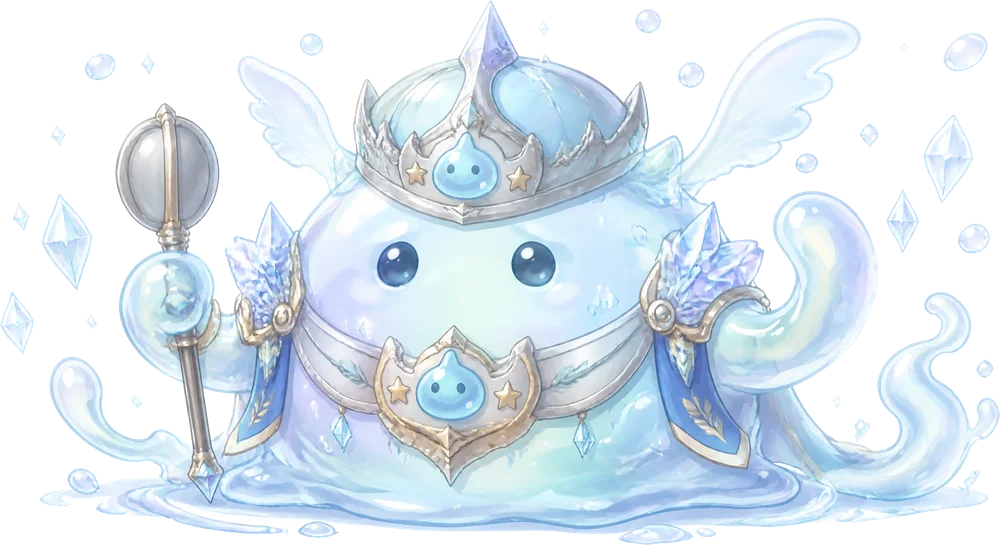
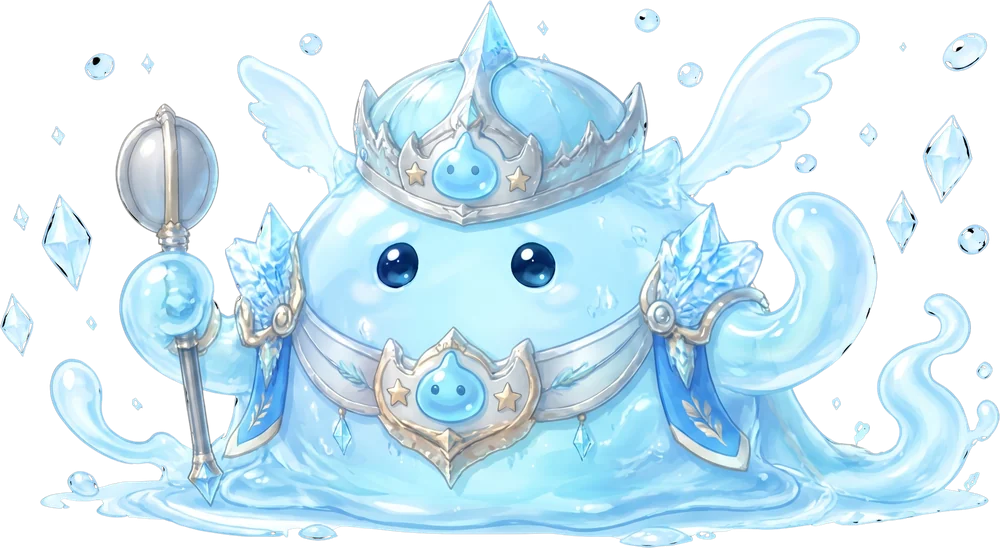
update: 白金スライムの画像を差し替え（他の手帖と同じ水色系に）
白金専用の強い着色は不要になったため削除し、他の手帖と同じ色違い処理に統一

Claude-Session: https://claude.ai/code/session_01EftAGzqa5a4WGGvn4eGGrQ

diff --git a/index.html b/index.html
@@ -2014,7 +2014,7 @@
         <button onclick="openCouponModal()" title="秘密の鍵"
             style="background:rgba(5,20,10,0.55);border:1px solid rgba(60,140,80,0.35);border-radius:20px;padding:3px 9px;font-size:11px;cursor:pointer;color:rgba(140,200,150,0.65);display:flex;align-items:center;gap:3px;transition:all 0.3s;font-family:'Noto Serif JP',serif;letter-spacing:0.03em;opacity:0.7;flex-shrink:0;">🗝</button>
         <button id="accountChip" onclick="Cloud.chipClick()" title="アカウント"></button>
-        <div style="font-size:9px;letter-spacing:0.12em;color:rgba(200,170,80,0.45);font-family:'Noto Serif JP',serif;text-align:center;flex:1;padding:0 6px;">Designed by Takahiro Iimura<br><span id="appVersion" style="opacity:.8;">ver. 2026.11.01-1930</span></div>
+        <div style="font-size:9px;letter-spacing:0.12em;color:rgba(200,170,80,0.45);font-family:'Noto Serif JP',serif;text-align:center;flex:1;padding:0 6px;">Designed by Takahiro Iimura<br><span id="appVersion" style="opacity:.8;">ver. 2026.11.01-1955</span></div>
         <button id="bgmBtn" onclick="toggleBGM()" title="BGM ON/OFF"
             style="background:rgba(30,20,5,0.7);border:1.5px solid rgba(220,170,50,0.7);border-radius:20px;padding:3px 10px;font-size:12px;cursor:pointer;color:rgba(220,170,50,0.85);display:flex;align-items:center;gap:4px;transition:all 0.3s;font-family:'Noto Serif JP',serif;letter-spacing:0.05em;flex-shrink:0;">🔇 BGM</button>
     </div>
@@ -4524,7 +4524,7 @@ const Cloud = (function () {
     ];
     function slimeBaseHue() {
         let h = null;
-        try { h = JSON.parse(localStorage.getItem('slimeHue2') || '{}')[currentNB.key]; } catch (e) {}
+        try { h = JSON.parse(localStorage.getItem('slimeHue3') || '{}')[currentNB.key]; } catch (e) {}
         return (typeof h === 'number') ? h : (SLIME_BY_NB[currentNB.key] || SLIME_BY_NB.A1).baseHue;
     }
     // 画像のスライムの色相を測る（色名と実際の色を一致させるため）
@@ -4544,9 +4544,9 @@ const Cloud = (function () {
             }
             const best = bins.indexOf(Math.max(...bins));
             if (bins[best] < 20) return;
-            const st = JSON.parse(localStorage.getItem('slimeHue2') || '{}');
+            const st = JSON.parse(localStorage.getItem('slimeHue3') || '{}');
             st[currentNB.key] = best * 10 + 5;
-            localStorage.setItem('slimeHue2', JSON.stringify(st));
+            localStorage.setItem('slimeHue3', JSON.stringify(st));
         } catch (e) {}
     }
     function slimeLook(tabIdx) {
@@ -4559,10 +4559,6 @@ const Cloud = (function () {
         const lap = Math.floor((tabIdx - 1) / list.length);   // 2周目以降は「真・」で強化版
         const c = list[k];
         let f = c.f || `hue-rotate(${((c.hue - base) % 360 + 360) % 360}deg) saturate(1.8)${c.extra || ''}`;
-        // 白金のスライムは白っぽく色が薄いので、先にセピアで色を乗せてから回転・着色を強める
-        if (currentNB.key === 'PT' && !c.f) {
-            f = `sepia(.75) saturate(3) hue-rotate(${((c.hue - 58) % 360 + 360) % 360}deg) saturate(1.9) brightness(.86) contrast(1.18)${c.extra || ''}`;
-        }
         if (lap > 0) f += ' saturate(1.4) contrast(1.15)';
         return { color: (lap > 0 ? '真・' : '') + c.name, filter: f };
     }
